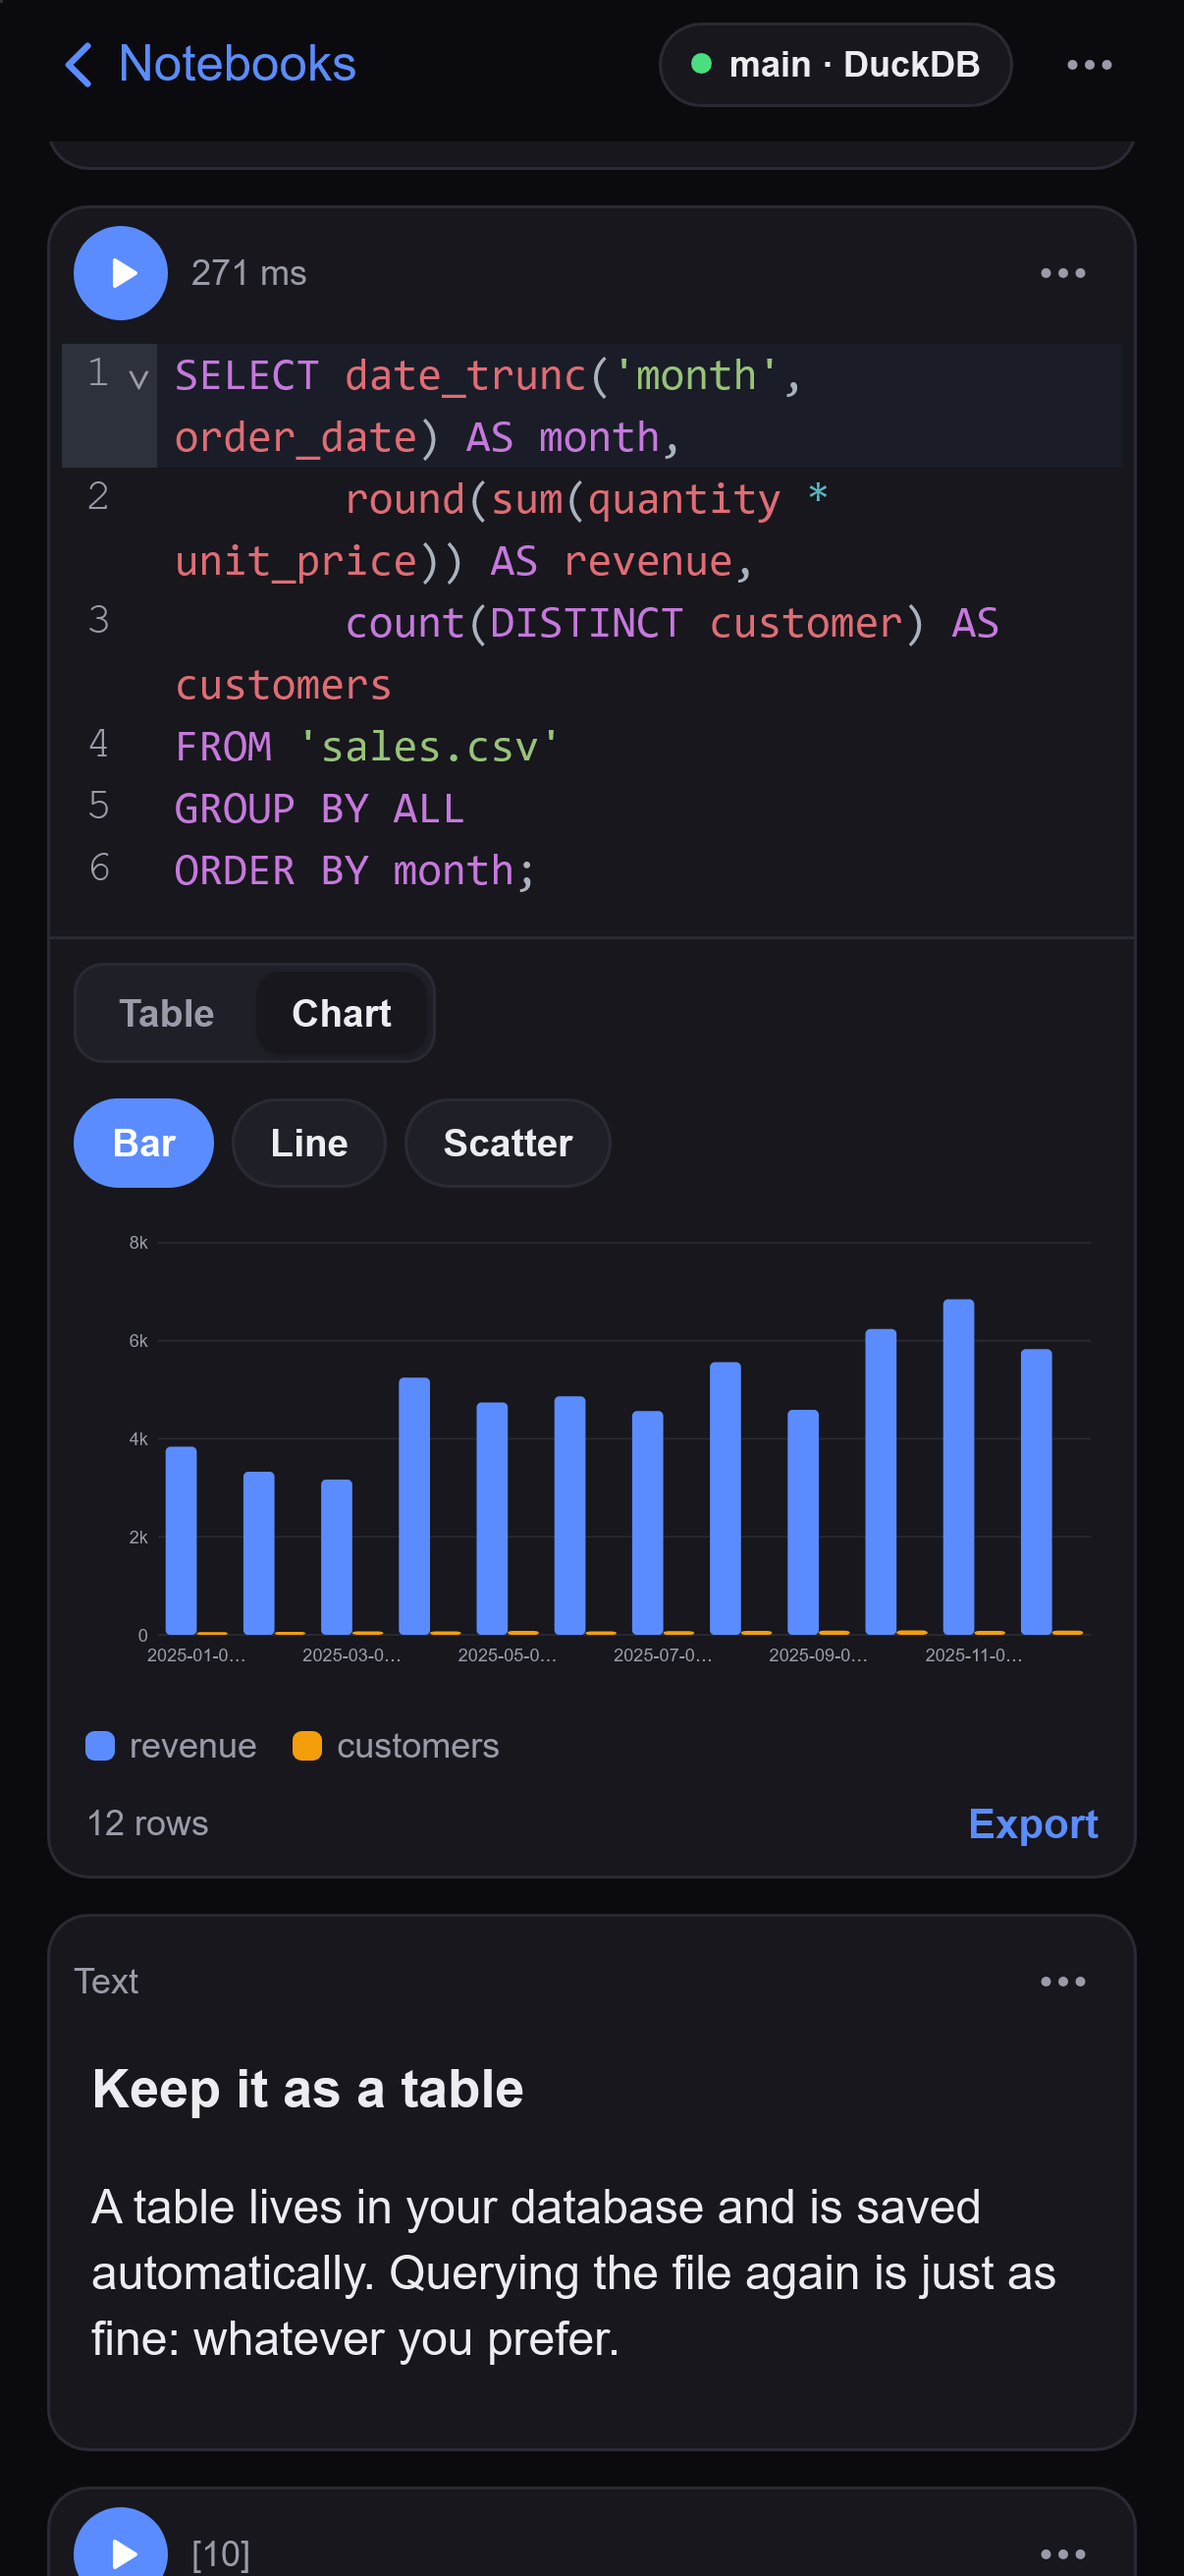
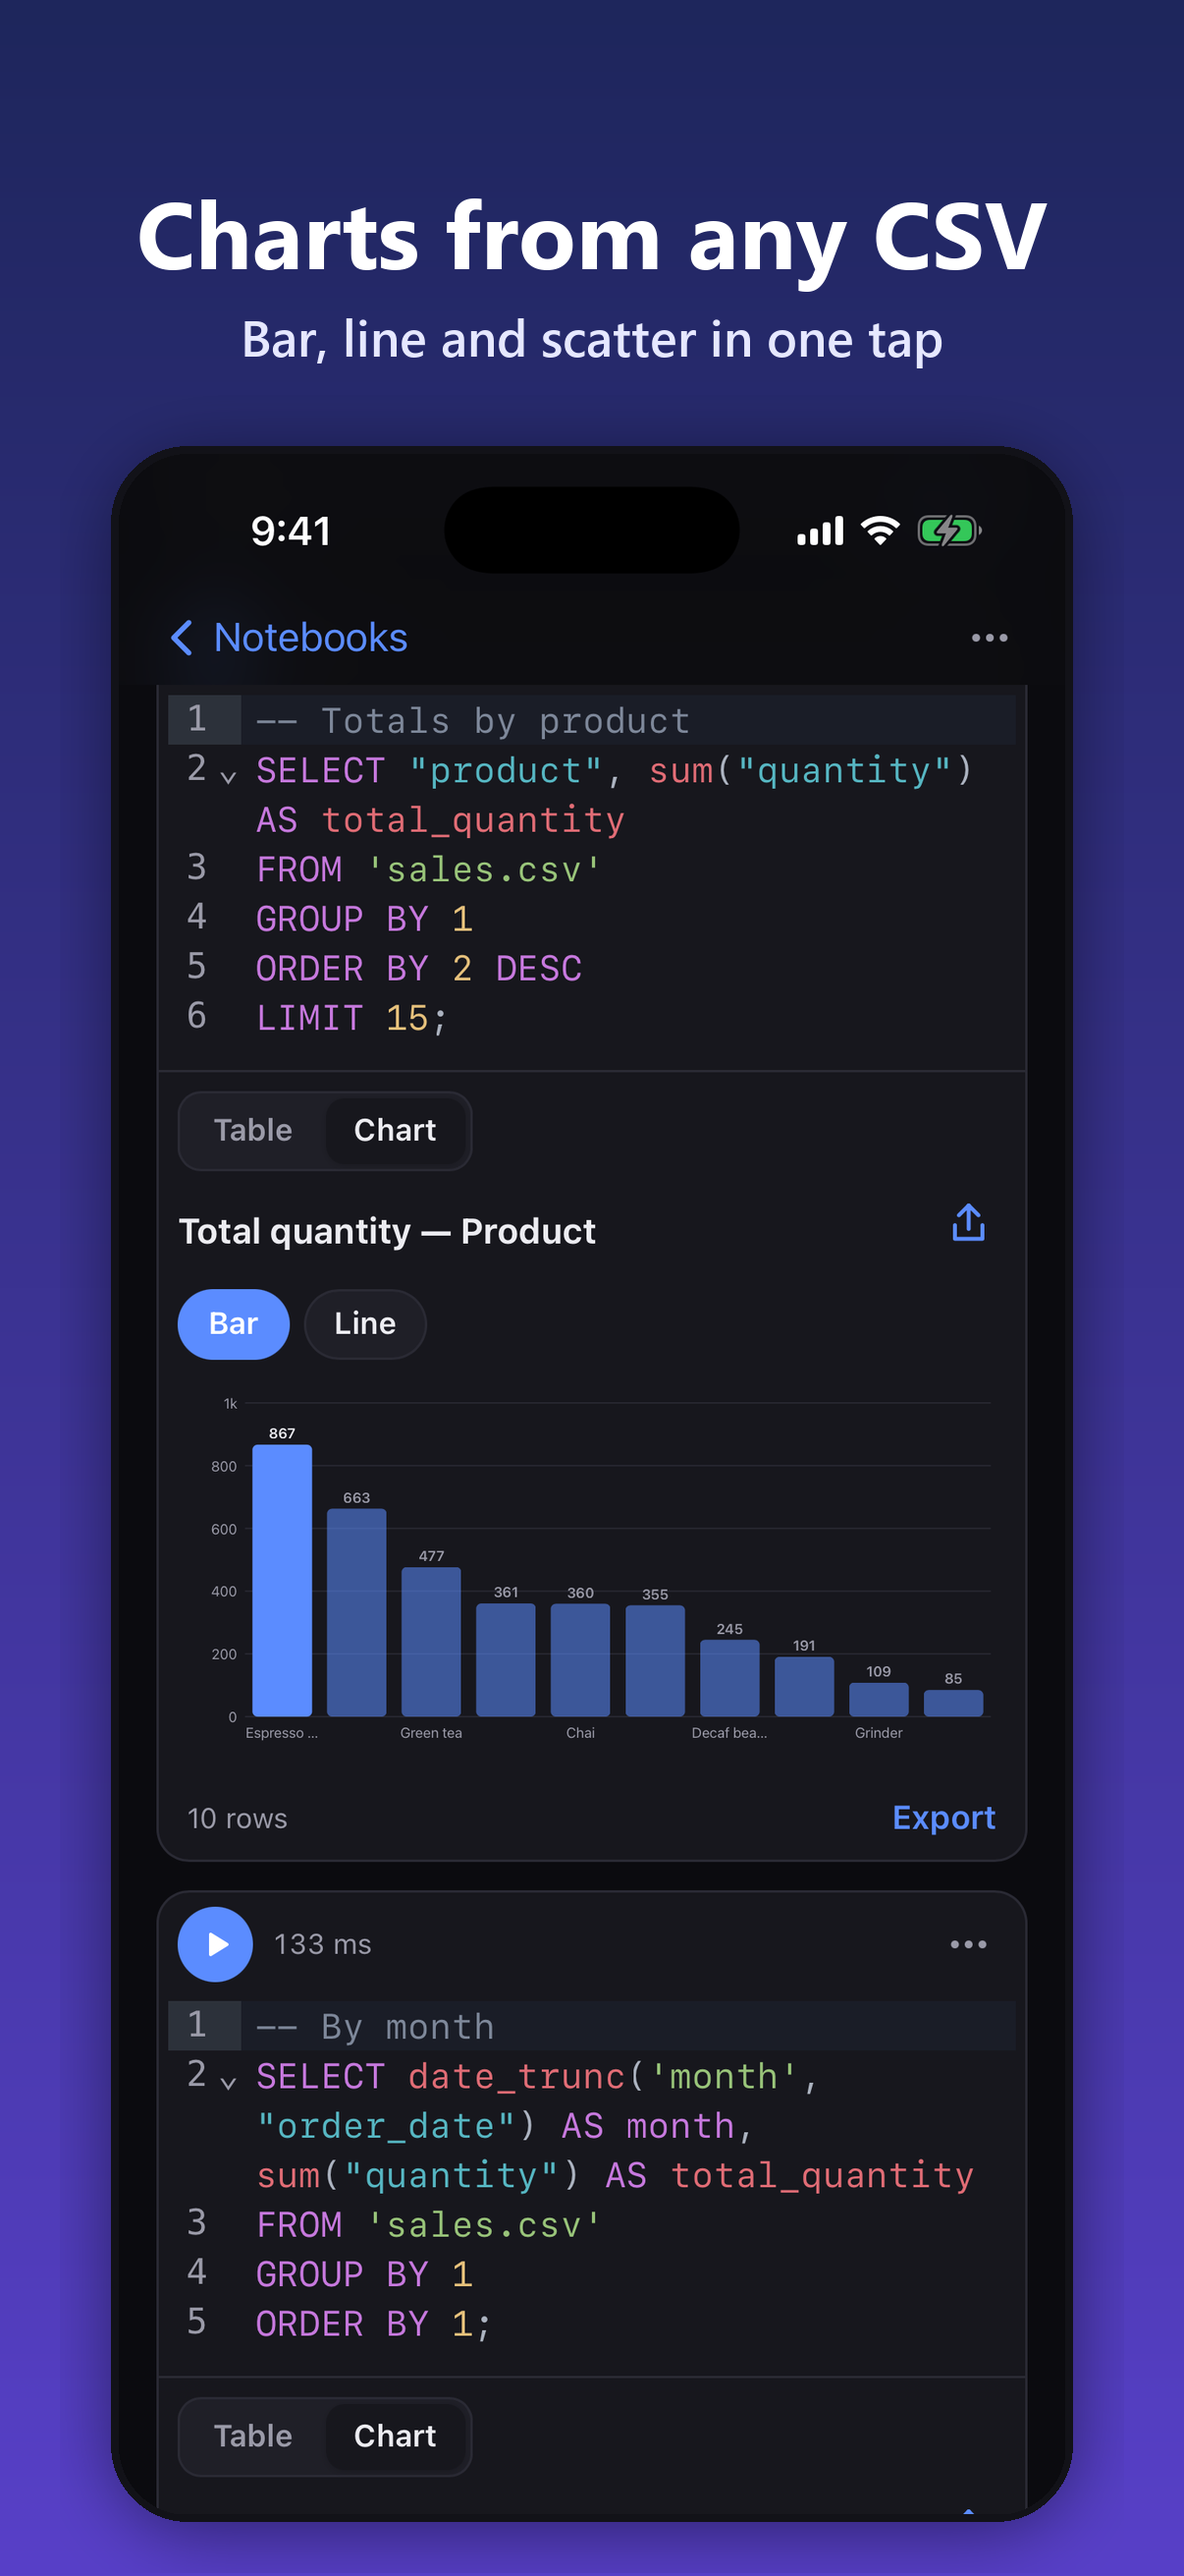
App Store screenshots from the iOS simulator: native Files list, charts, map, column stats, trend, logs

diff --git a/scripts/compose-screens.py b/scripts/compose-screens.py
@@ -16,7 +16,6 @@ ORDER = [
     ('stats', 'Understand every column', 'Ranges, averages, top values'),
     ('trend', 'See trends over time', 'Monthly totals, ready made'),
     ('log', 'Logs and text files too', 'Levels and top words, charted'),
-    ('analyze', 'SQL when you want it', 'Notebooks and free lessons'),
 ]
 BOLD = 'C:/Windows/Fonts/segoeuib.ttf'
 SEMI = 'C:/Windows/Fonts/seguisb.ttf'
@@ -45,6 +44,8 @@ def compose(raw: Path, title: str, sub: str, out: Path, dark: bool):
     f1 = ImageFont.truetype(BOLD, 96)
     f2 = ImageFont.truetype(SEMI, 52)
     y = 170
+    while d.textlength(title, font=f1) > W - 140 and f1.size > 60:
+        f1 = ImageFont.truetype(BOLD, f1.size - 4)
     for text, font, fill, gap in ((title, f1, (255, 255, 255), 26), (sub, f2, (230, 232, 255), 0)):
         w = d.textlength(text, font=font)
         d.text(((W - w) / 2, y), text, font=font, fill=fill)
